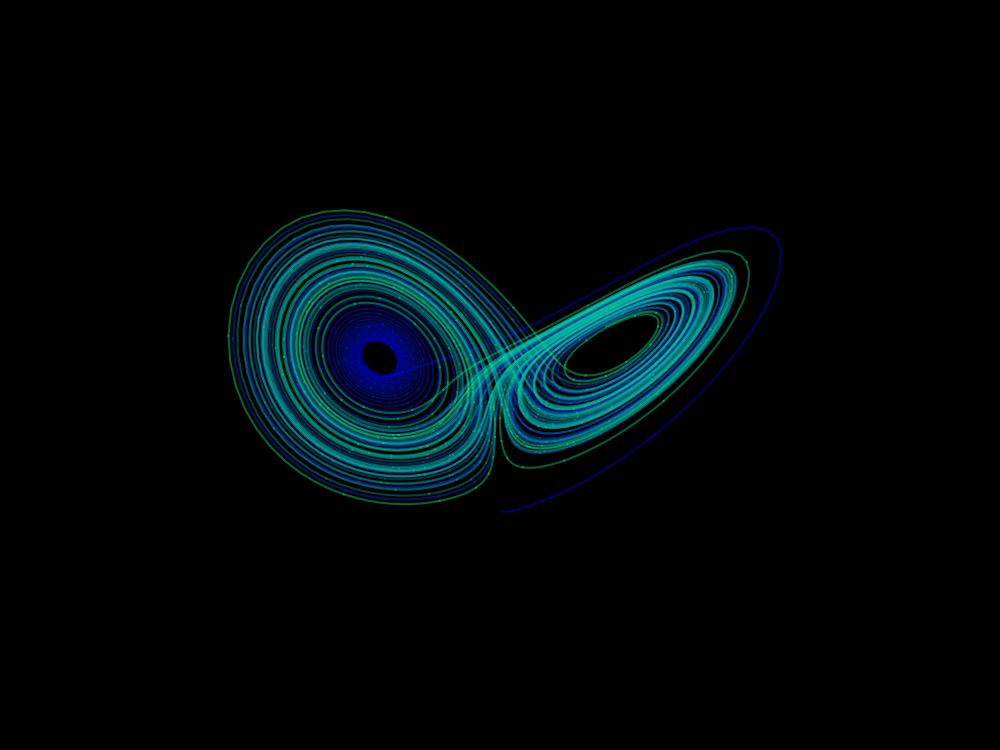
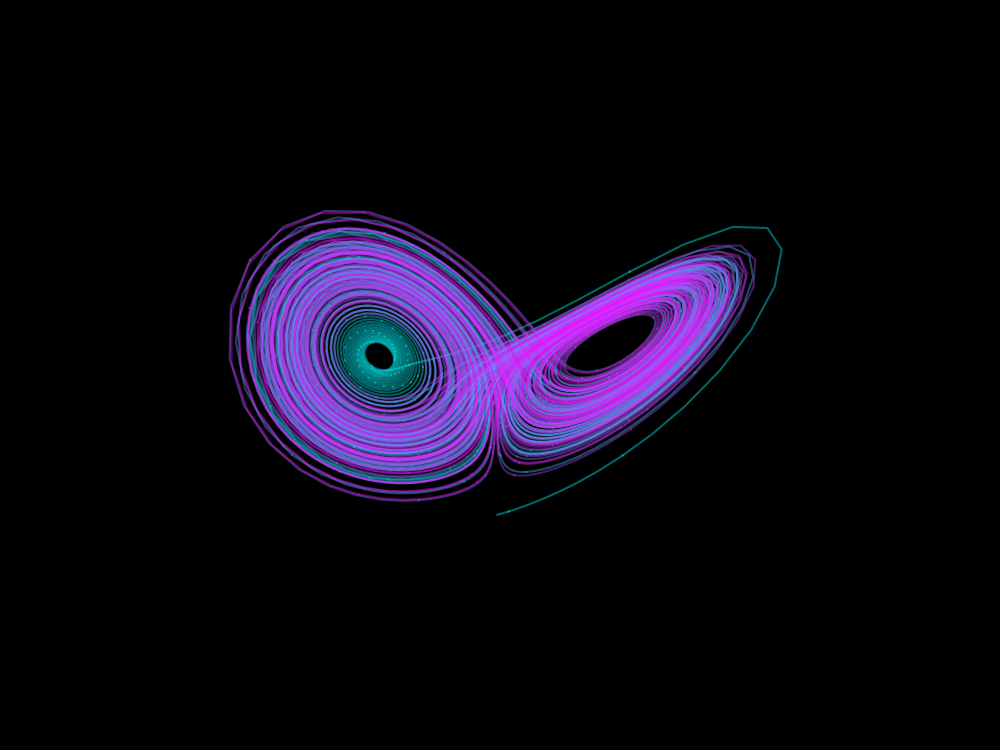
scipy & rk4 work

Changed region(s): [[0.217, 0.276, 0.806, 0.6747], [0.744, 0.276, 0.775, 0.3067], [0.496, 0.6747, 0.527, 0.7053]]

diff --git a/Lorenz/LorenzPy.py b/Lorenz/LorenzPy.py
@@ -5,6 +5,7 @@ import numpy as np
 from scipy.integrate import solve_ivp
 import matplotlib.pyplot as plt
 from mpl_toolkits.mplot3d import Axes3D
+#from sympy.abc import x,y,z
 
 class LorenzAttractor:
 
@@ -30,31 +31,66 @@ class LorenzAttractor:
         # Make the line multi-coloured by plotting it in segments of length s which
         # change in colour across the whole time series.
         s = 10
-        cmap = plt.cm.winter
+        cmap = plt.cm.cool
         for i in range(0,n-s,s):
             ax.plot(x[i:i+s+1], y[i:i+s+1], z[i:i+s+1], color=cmap(i/n), alpha=0.4)
 
         # Remove all the axis clutter, leaving just the curve.
         ax.set_axis_off()
         plt.savefig('myLorenz.png', dpi=DPI)
-        plt.show()        
+        plt.show()      
         
-    def Rk4Lorenz():
-        pass
+    # Runge-Kutta 4th order
+
+    def L4rk(self,x,y,z, sigma, beta, rho):
+        dotX = sigma * (y - x)      # x' = sigma*(y-x)
+        dotY = x * (rho - z) - y    # y' = x*(rho-z)-y
+        dotZ = x*y - beta*z         # z' = x*y-beta*z
+        return dotX, dotY, dotZ
+  
+    def Rk4(self,h,N,sigma, beta, rho):
+        xs = np.empty((N+1,))
+        ys = np.empty((N+1,))
+        zs = np.empty((N+1,))
+
+        xs[0], ys[0], zs[0] = (0.1,0.1,0.1)
+
+        for i in range(N):
+          x_dot, y_dot, z_dot = self.L4rk(xs[i], ys[i], zs[i],sigma, beta, rho)
+          xs[i+1] = xs[i] + (x_dot*h)
+          ys[i+1] = ys[i] + (y_dot*h)
+          zs[i+1] = zs[i] + (z_dot*h)
+
+        fig = plt.figure()
+        ax = fig.gca(projection = '3d')
+
+        ax.plot(xs, ys, zs)
+        ax.set_xlabel('x')
+        ax.set_ylabel('y')
+        ax.set_zlabel('z')
+        ax.set_title('Lorenz Attractor (RK4)')
+        plt.savefig('LorenzRK4.png', dpi=100)
+        plt.show()
+
+            
     def EulerLorenz():
         pass
 
 
 
 def main():
-    tmax, n = 100, 10000
-    x0, y0, z0 = 0,1,1.05
+    tfin = 200
+    h = 0.01
+    N = round((tfin-h)/h)
+    tmax, n = 200, 10000
+    x0, y0, z0 = 0.1,0.1,0.1
     sigma, beta, rho = 10, 8/3, 28
     WIDTH, HEIGHT, DPI = 1000, 750, 100
       
     la = LorenzAttractor()
 
     la.OdeLorenz(x0,y0,z0, tmax,n, sigma, beta, rho,WIDTH, HEIGHT, DPI)
+    la.Rk4(h,N,sigma, beta, rho)
     
 
 if __name__ == "__main__":
